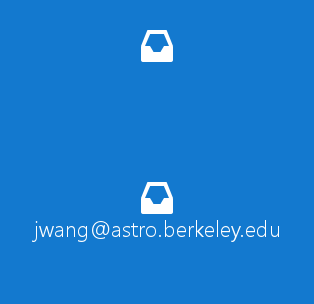
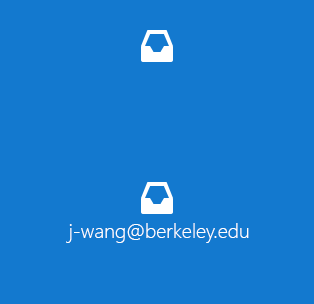
Updated institution and new publications

Changed region(s): [[0.086, 0.7105, 0.8885, 0.7993]]

diff --git a/index.html b/index.html
@@ -2,7 +2,7 @@
 <html xmlns="http://www.w3.org/1999/xhtml">
 <head>
 <meta http-equiv="Content-Type" content="text/html; charset=utf-8" />
-<meta name="description" content="Jason Wang is a UC Berkeley grad student in astronomy working on directly imaging exoplanets and watching them move in their orbits. Personal website detailing research and movies of exoplanets orbiting other stars." />
+<meta name="description" content="Jason Wang is an astronomer at Caltech working on directly imaging exoplanets and recording footage of their orbits. Personal website detailing research and movies of exoplanets orbiting other stars. Current 51 Pegasi b Fellow and UC Berkeley PhD" />
 <meta name="author" content="Jason Wang" />
 <title>Jason Wang</title>
 	<link href="templatemo_style.css" type="text/css" rel="stylesheet" /> 
@@ -123,13 +123,13 @@
 						</div>
 					</div>
 					<div class="half right">
-						<p>I am graduate student in astronomy at UC Berkeley. I take images of faint exoplanets by removing the glare of their host stars so that we can trace out their orbits and measure the properites of their atmospheres.</p>
-						<p class="no_mb">I grew up in Dublin, Ohio and got my B.A. in Physics with a Minor in Computer Science from Cornell University. </p>
+						<p>I am a <a href="https://www.hsfoundation.org/programs/science/51-pegasi-b-fellowship/">51 Pegasi b</a> postdoc at Caltech. I take images of faint exoplanets by removing the glare of their host stars so that we can trace out their orbits and measure the properites of their atmospheres. I also study their atmospheres through low and high resolution spectroscopy.</p>
+						<p class="no_mb">I grew up in Dublin, Ohio, got my B.A. in Physics with a Minor in Computer Science from Cornell University, and my PhD in Astrophysics from UC Berkeley. </p>
 					</div>
 					<div class="half right h15"></div>
 					<div class="half right">
-						<h5 class="no_mb">Email</h5> jwang@astro.berkeley.edu
-						<br/><h5 class="no_mb"> Office</h5> Campbell Hall 605N
+						<h5 class="no_mb">Email</h5> jwang4@caltech.edu
+						<br/><h5 class="no_mb"> Office</h5> Cahill 150
 						<br/><h5 class="no_mb"> Social Media</h5> <a href="https://twitter.com/semaphore_P"><img src="images/flat_icons/twitter-color-iso.png" width="32" height="32"/></a> <a href="https://www.youtube.com/channel/UCDsXPmZGbLLOuuEuat-0a8g"><img src="images/flat_icons/youtube-color-iso.png" width="32" height="32" /></a>
 					</div>
 				</div></div>
@@ -254,11 +254,13 @@
 				<div class="overlay_border"><div class="left overlay overlay_gray"> 
 					<ul class="squarebullet spacing">
 					<h4>First Author Publications</h4>
+					<li><b>Wang, J. J.</b>, Graham, J. R., Dawson, R., et al. (2018) Dynamical Constraints on the HR 8799 Planets with GPI. <a href="https://arxiv.org/abs/1809.04107">AJ, 156, 192.</a></li>
 					<li><b>Wang, J. J.</b>, Perrin, M. D., Savransky, D., et al. (2018) Automated data processing architecture for the Gemini Planet Imager Exoplanet Survey. <a href="https://arxiv.org/abs/1801.01902">JATIS, 4, 018002.</a></li>
 					<li><b>Wang, J. J.</b>, Graham, J. R., Pueyo, L., et al. (2016) The Orbit and Transit Prospects for β Pictoris b constrained with One Milliarcsecond Astrometry. <a href="https://arxiv.org/abs/1607.05272">AJ, 152, 97W</a>.</li>
 					<li><b>Wang, J. J.</b>, Graham, J. R., Pueyo, L., et al. (2015) Gemini Planet Imager Observations of the AU Microscopii Debris Disk: Asymmetries within One Arcsecond. <a href="http://arxiv.org/abs/1508.04765">ApJL, 811, L19</a>.</li>
 					<li><b>Wang, J. J.</b>, Rajan, A., Graham, J. R., et al. (2014) Gemini Planet Imager Observational Calibrations VIII: Characterization and Role of Satellite Spots. <a href="http://arxiv.org/abs/1407.2308">Proc. SPIE, 9147, 55</a>.</li>
 					<h4>Co-author Publications (Selected)</h4>
+					<li>Greenbaum A. Z., Pueyo, L., Ruffio, J.-B., <b>Wang, J. J.</b>, et al. (2018) GPI Spectra of HR 8799 c, d, and e from 1.5 to 2.4 μm with KLIP Forward Modeling. <a href="https://arxiv.org/pdf/1804.07774.pdf">AJ, 155, 226</a>.</li>
 					<li>Nielsen, E. L., De Rosa, R. J., Rameau, J., <b>Wang, J. J.</b>, et al. (2017) Evidence that the Directly-Imaged Planet HD 131399 Ab is a Background Star. <a href="https://arxiv.org/abs/1705.06851">AJ, 154, 218</a>.</li>
 					<li>Ruffio, J.-B., Macintosh, B., <b>Wang, J. J.</b>, et al. (2017) Improving and Assessing Planet Sensitivity of the GPI Exoplanet Survey with a Forward Model Matched Filter. <a href="https://arxiv.org/abs/1705.05477">AJ, 842, 14</a>.</li>
 					<li>Nielsen, E. L., De Rosa R. J., <b>Wang, J.</b>, et al. (2016) Dynamical Mass Measurement of the Young Spectroscopic Binary V343 Normae AaAb Resolved With the Gemini Planet Imager. <a href="https://arxiv.org/abs/1609.09095">AJ, 152, 175N</a>.</li>
@@ -270,6 +272,10 @@
 					<li>Millar-Blanchaer, M. A., Graham, J. R., Pueyo, L., <b>et al.</b> (2015) β Pictoris' inner disk in polarized light and new orbital parameters for β Pictoris b. <a href="http://arxiv.org/abs/1508.04787">ApJ, 811, 18</a>.</li>
 					<li>Macintosh, B., Graham, J. R., <b>et al.</b> (2015) Discovery and spectroscopy of the young Jovian planet 51 Eri b with the Gemini Planet Imager. <a href="http://arxiv.org/abs/1508.03084">Science, 350, 64</a>.</li>
 					<h4>All Other Co-author Publications</h4>
+					<li>Ruffio, J.-B., Mawet, D., Czekala, I., <b>et al.</b> (2018) A Bayesian Framework for Exoplanet Direct Detection and Non-Detection. <a href="https://arxiv.org/abs/1809.08261">AJ, in press</a>.</li>
+					<li>Bailey, V. P., Bottom, M., Cady, E., <b>et al.</b> (2018) Lessons for WFIRST CGI from ground-based high-contrast systems. <a href="https://doi.org/10.1117/12.2313820">Proc. SPIE, 10698, 6P</a>.</li>
+					<li>Savransky, D., Shapiro, J., Bailey, V., <b>et al.</b> (2018) Mining the GPIES database. <a href="https://arxiv.org/abs/1807.07153">Proc. SPIE, 10703, 0H</a>.</li>
+					<li>Esposito, T. M., Duchêne, G., Kalas, P., <b>et al.</b> (2018) Direct Imaging of the HD 35841 Debris Disk: A Polarized Dust Ring from Gemini Planet Imager and an Outer Halo from HST/STIS. <a href="https://arxiv.org/abs/1806.02904">AJ, 156, 47</a>.</li>
 					<li>Mékarnia, D., Chappellier, E., Guillot, T., <b>et al.</b> (2017) The δ Scuti pulsations of β Pictoris as observed by ASTEP from Antarctica. <a href="https://arxiv.org/abs/1711.05604">A&amp;A, 608, L6</a>.</li>
 					<li>Rajan, A., Rameau, J., De Rosa, R. J., <b>et al.</b> (2017) Characterizing 51 Eri b from 1-5  μμ m: a partly-cloudy exoplanet. <a href="https://arxiv.org/abs/1705.03887">AJ, 154, 10</a>.</li>
 					<li>Follette, K. B., Rameau, J., Dong, R., <b>et al.</b> (2017) Complex Spiral Structure in the HD 100546 Transitional Disk as Revealed by GPI and MagAO. <a href="https://arxiv.org/abs/1704.06260">AJ, 153, 264</a>.</li>
